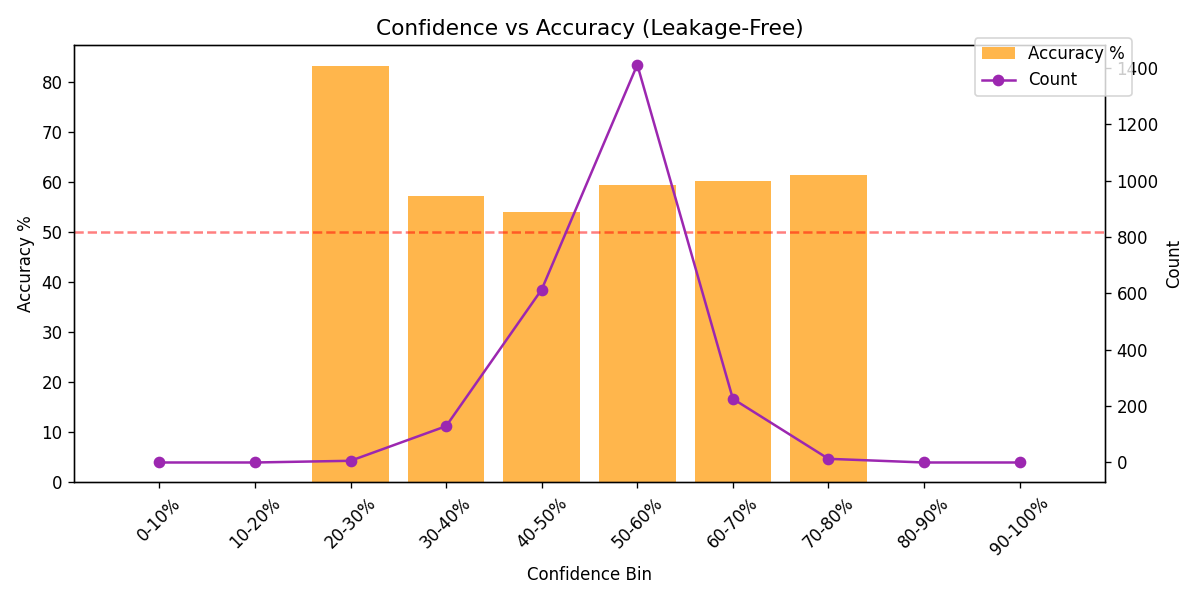
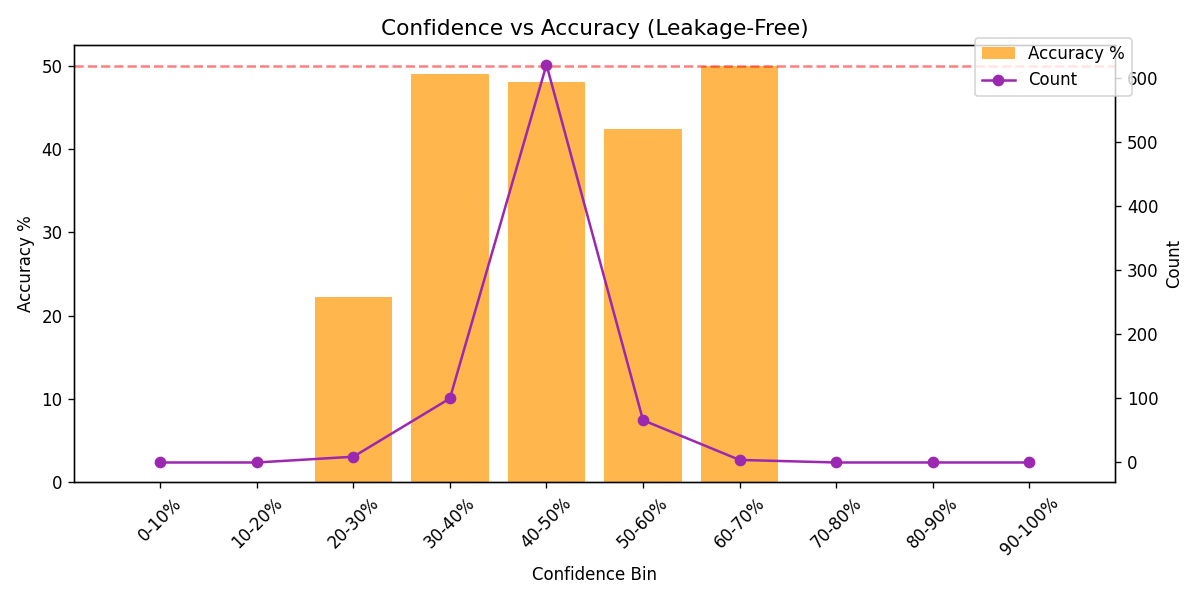
feat: Phase 6 - Implement Gemini High-Frequency Override Protocol (1 signal every 5 mins)

diff --git a/telegram_bot.py b/telegram_bot.py
@@ -650,117 +650,16 @@ async def _auto_signal_job(app: Application):
                     # Log EVERY prediction to CSV (before filtering)
                     _log_prediction_csv(sym, pred)
 
-                    # 4. Signal quality filters (using adaptive threshold)
-                    active_min_conf = _adaptive_thresh.current
+                    # =========================================================
+                    # Phase 6 (Always-On High Frequency Override):
+                    # We bypass ALL legacy ML confidence thresholds, regime blockers, 
+                    # and session filters. Every single 5-minute candle passes through 
+                    # to the Gemini Oracle for a forced directional verdict.
+                    # =========================================================
                     if pred.get("error"):
                         filtered_out[sym] = pred["error"]
                         continue
-                    if conf < active_min_conf:
-                        filtered_out[sym] = f"low-conf ({conf:.0f}%)"
-                        continue
-                    if trade == "HOLD" and conf < 42:
-                        filtered_out[sym] = "HOLD signal"
-                        continue
-                    if sym in filtered_out:  # regime transition
-                        continue
-
-                    # 5. Block losing regimes
-                    if regime in BLOCKED_REGIMES:
-                        filtered_out[sym] = f"blocked regime ({regime})"
-                        continue
-
-                    # 6. Block underperforming symbols
-                    if sym in BLOCKED_SYMBOLS:
-                        filtered_out[sym] = f"blocked symbol"
-                        continue
-
-                    # 7. Ensemble disagreement filter
-                    ens_var = pred.get("ensemble_variance", 0)
-                    if ens_var > MAX_ENSEMBLE_VARIANCE:
-                        filtered_out[sym] = f"ensemble disagree (var={ens_var:.4f})"
-                        continue
-
-                    # 8. Skip when meta reliability is too low
-                    meta_rel = pred.get("meta_reliability_percent", 50)
-                    if meta_rel < 40 and conf < 48:
-                        filtered_out[sym] = f"low meta ({meta_rel:.0f}%)"
-                        continue
-
-                    # =========================================================
-                    # STRATEGY 2: Ensemble Unanimity (require 6/7+ agreement)
-                    # =========================================================
-                    unanimity = pred.get("ensemble_unanimity", 0.5)
-                    if unanimity < MIN_UNANIMITY:
-                        agree = pred.get('ensemble_agree_count', '?')
-                        total = pred.get('ensemble_total', '?')
-                        filtered_out[sym] = f"split vote ({agree}/{total})"
-                        continue
-
-                    # =========================================================
-                    # STRATEGY 3: Session Hour Window
-                    # =========================================================
-                    current_hour = now_utc.hour
-                    if current_hour in BLOCKED_HOURS_UTC:
-                        filtered_out[sym] = f"off-hours ({current_hour}:00 UTC)"
-                        continue
-
-                    # =========================================================
-                    # STRATEGY 5: Consecutive Candle Confirmation
-                    # =========================================================
-                    current_dir = pred["suggested_direction"]
-                    prev_dir = _prev_directions.get(sym)
-                    _prev_directions[sym] = current_dir  # always update
-                    if prev_dir is not None and prev_dir != current_dir and regime == "Ranging":
-                        filtered_out[sym] = f"direction flip ({prev_dir}->{current_dir})"
-                        continue
-
-                    # =========================================================
-                    # STRATEGY 1: Multi-TF Confluence
-                    # =========================================================
-                    try:
-                        data_mtf = fetch_multi_timeframe(sym, 50)
-                        confl = check_confluence(
-                            m5_df=data_mtf.get('M5'),
-                            m15_df=data_mtf.get('M15'),
-                            h1_df=data_mtf.get('H1'),
-                            predicted_direction=current_dir,
-                            min_score=2,
-                        )
-                        pred["confluence_score"] = confl["confluence_score"]
-                        if not confl["confluence_pass"]:
-                            filtered_out[sym] = confl["reason"]
-                            continue
-                    except Exception as e:
-                        log.warning("Confluence check exception %s: %s", sym, e)
-                        filtered_out[sym] = f"confluence error ({e})"
-                        continue
-
-                    # =========================================================
-                    # UPGRADE 2: Candle Pattern Confirmation
-                    # =========================================================
-                    try:
-                        cp = pattern_confirms(data.get('M5'), current_dir)
-                        if not cp["confirmed"]:
-                            filtered_out[sym] = cp["reason"]
-                            continue
-                    except Exception as e:
-                        log.warning("Candle pattern exception %s: %s", sym, e)
-                        filtered_out[sym] = f"pattern error ({e})"
-                        continue
-
-                    # =========================================================
-                    # UPGRADE 4: News Calendar Filter
-                    # =========================================================
-                    try:
-                        nf = check_news_filter(sym, now_utc)
-                        if nf["blocked"]:
-                            filtered_out[sym] = nf["reason"]
-                            continue
-                    except Exception as e:
-                        log.warning("News filter exception %s: %s", sym, e)
-                        filtered_out[sym] = f"news error ({e})"
-                        continue
-
+                        
                     predictions[sym] = pred
                     _last_predictions[sym] = {
                         "pred": pred,
@@ -796,28 +695,9 @@ async def _auto_signal_job(app: Application):
                 predictions = corr_filtered
 
             # =================================================================
-            # UPGRADE 6: Stacking Gatekeeper
+            # Phase 6: Bypass Stacking Gatekeeper & Rank/Select
+            # We want to allow ALL signals through to the Gemini layer
             # =================================================================
-            if predictions:
-                stacker_filtered = {}
-                for sym, pred in predictions.items():
-                    gate = _stacker.should_send(pred, threshold=0.55)
-                    if gate["send"]:
-                        stacker_filtered[sym] = pred
-                    else:
-                        filtered_out[sym] = gate["reason"]
-                        log.info("Stacker gate: %s blocked — %s", sym, gate["reason"])
-                predictions = stacker_filtered
-
-            # =================================================================
-            # STRATEGY 4: Rank and select only top N signals
-            # =================================================================
-            if predictions:
-                predictions = rank_and_select(
-                    predictions,
-                    max_signals=MAX_SIGNALS_PER_CYCLE,
-                    min_score=MIN_SIGNAL_SCORE,
-                )
 
             # =================================================================
             # LAYER 13: Gemini AI Master Trader Verification
@@ -864,14 +744,13 @@ async def _auto_signal_job(app: Application):
                                 atr=atr,
                                 news_sentiment="N/A"
                             )
-                            if v["approved"]:
-                                gemini_filtered[sym] = pred
-                                log.info("Gemini APPROVED %s (Conf: %s%%): %s", sym, v.get("gemini_confidence", "?"), v["reason"])
-                            else:
-                                filtered_out[sym] = f"Gemini Veto: {v['reason']}"
-                                log.info("Gemini REJECTED %s (Conf: %s%%): %s", sym, v.get("gemini_confidence", "?"), v["reason"])
-                        else:
+                            # Phase 6: Gemini represents the ultimate Directional Override
+                            # It forces a YES/NO on the current direction, converting the signal.
+                            pred["suggested_direction"] = v["verdict"]
+                            if v.get("gemini_confidence", 0) > 0:
+                                pred["final_confidence_percent"] = v["gemini_confidence"]
                             gemini_filtered[sym] = pred
+                            log.info("Gemini OVERRIDE on %s to %s (Conf: %s%%): %s", sym, v["verdict"], v.get("gemini_confidence", "?"), v["reason"])
                     except Exception as e:
                         log.warning("Gemini integration error on %s: %s", sym, e)
                         gemini_filtered[sym] = pred  # Fail-open

diff --git a/feature_engineering.py b/feature_engineering.py
@@ -81,10 +81,10 @@ FEATURE_COLUMNS = [
     "delta_adx_accel", "delta_atr_accel",
     # Spread-relative move size
     "move_vs_spread",
-    # Hour granularity
-    "minute_sin",
-    # Phase 1: Trend-wrapped momentum (2)
-    "momentum_in_trend", "momentum_vs_ema",
+    # Phase 5 (1-Candle Expiry) Binary Options Microstructure
+    "upper_wick_percent", "lower_wick_percent", "body_percent",
+    "rsi_velocity", "atr_acceleration", "close_to_high_dist", "close_to_low_dist",
+    "micro_trend_3", "price_action_score",
 ]
 
 
@@ -410,6 +410,43 @@ def compute_features(df, m15_df=None, h1_df=None):
     # Compression acceleration (how fast is range narrowing)
     df["range_compression_speed"] = df["compression_ratio"] - df["compression_ratio"].shift(5)
 
+    # --- Phase 5 (1-Candle Expiry) Proprietary Features ---
+    # Define variables explicitly
+    high = df["high"]
+    low = df["low"]
+    close = df["close"]
+    
+    # 1. Wick & Body Proportions (crucial for next-candle momentum)
+    candle_range = (high - low).replace(0, 1e-10)
+    df["upper_wick_percent"] = (high - df[["open", "close"]].max(axis=1)) / candle_range
+    df["lower_wick_percent"] = (df[["open", "close"]].min(axis=1) - low) / candle_range
+    df["body_percent"] = df["body_size"] / candle_range
+    
+    # 2. RSI Velocity (How fast is momentum shifting right now)
+    df["rsi_velocity"] = df["rsi_14"].diff(1).fillna(0)
+    
+    # 3. ATR Acceleration (Volatility expansion inside the 5m window)
+    df["atr_acceleration"] = (df["atr_14"].diff(1) / df["atr_14"].shift(1).replace(0, 1e-10)).fillna(0)
+    
+    # 4. Intra-candle closing pressure
+    df["close_to_high_dist"] = (high - close) / candle_range
+    df["close_to_low_dist"] = (close - low) / candle_range
+    
+    # 5. Micro-trend (3-bar immediate direction)
+    df["micro_trend_3"] = (close > close.shift(3)).astype(float).fillna(0.5)
+    
+    # 6. Synthesized Price Action Score (Combines wicks + body direction)
+    # A strong green body closing near the high = 1.0, strong red closing near low = -1.0
+    pa_score = pd.Series(0.0, index=df.index)
+    bull_mask = close > df["open"]
+    bear_mask = close < df["open"]
+    
+    # Bulls get points for big body, small upper wick (closing near high)
+    pa_score.loc[bull_mask] = df.loc[bull_mask, "body_percent"] - df.loc[bull_mask, "upper_wick_percent"]
+    # Bears get points for big body, small lower wick (closing near low)
+    pa_score.loc[bear_mask] = -(df.loc[bear_mask, "body_percent"] - df.loc[bear_mask, "lower_wick_percent"])
+    df["price_action_score"] = pa_score.fillna(0)
+
     # ---- v7: Accuracy upgrades ----
 
     # 1. Tick volume imbalance bars (order flow proxy)
@@ -446,7 +483,8 @@ def compute_features(df, m15_df=None, h1_df=None):
     df["five_candle_pattern"] = d4 * 16 + d3 * 8 + d2 * 4 + d1 * 2 + d0
 
     # Doji count (small body candles)
-    body_ratio = (c - o).abs() / candle_range
+    candle_range_5 = (df["high"] - df["low"]).replace(0, 1e-10)
+    body_ratio = (df["close"] - df["open"]).abs() / candle_range_5
     is_doji = (body_ratio < 0.3).astype(int)
     df["doji_count_5"] = is_doji.rolling(5, min_periods=1).sum()
 

diff --git a/gemini_filter.py b/gemini_filter.py
@@ -119,12 +119,9 @@ Now, apply advanced verification techniques used by elite traders (including Chi
 - Consideration of upcoming high-impact news events (if known)
 
 Return a JSON object with the following fields:
-- verdict: string, one of ["WIN", "LOSE", "UNCERTAIN"]
+- direction: string, exactly one of ["UP", "DOWN"] (your predicted direction for the next candle)
 - confidence: integer 0-100 (how sure you are of your verdict)
 - reasoning: string (brief explanation of your analysis)
-- suggested_probability_adjustment: float (optional, e.g., +0.05 to increase original probability)
-- suggested_confidence_adjustment: float (optional, similar)
-- filter_signal: boolean (true if the signal should be skipped/filtered out)
 """
     
     try:
@@ -133,34 +130,18 @@ Return a JSON object with the following fields:
         
         parsed = json.loads(text)
         
-        # The prompt forces filter_signal (boolean). Let's use it or fallback to verdict
-        should_filter = parsed.get("filter_signal", False)
-        verdict = parsed.get("verdict", "UNCERTAIN").upper()
-        
-        # If the LLM didn't pass filter_signal boolean, fallback to LOSE/UNCERTAIN logic
-        if "filter_signal" not in parsed:
-            if verdict == "LOSE":
-                should_filter = True
-                
+        direction_pred = parsed.get("direction", "UNKNOWN").upper()
         reason = parsed.get("reasoning", "No reasoning provided.")
         gemini_conf = parsed.get("confidence", 0)
         
-        if not should_filter:
-            return {
-                "approved": True, 
-                "reason": f"Gemini {verdict} ({gemini_conf}%): {reason}",
-                "gemini_confidence": gemini_conf,
-                "verdict": verdict
-            }
-        else:
-            return {
-                "approved": False, 
-                "reason": f"Gemini Filtered ({verdict}): {reason}",
-                "gemini_confidence": gemini_conf,
-                "verdict": verdict
-            }
+        return {
+            "approved": True,  # Always pass through now
+            "reason": f"Gemini Predicts {direction_pred} ({gemini_conf}%): {reason}",
+            "gemini_confidence": gemini_conf,
+            "verdict": direction_pred
+        }
             
     except Exception as e:
         log.warning("Gemini API call failed for %s: %s", symbol, e)
-        # Fail open if the API goes down so trading continues, but log it.
-        return {"approved": True, "reason": f"Gemini Error (Auto-Passed): {str(e)}", "gemini_confidence": 0, "verdict": "ERROR"}
+        # Fail open by defaulting to original direction if API goes down
+        return {"approved": True, "reason": f"Gemini Error (Auto-Passed): {str(e)}", "gemini_confidence": 0, "verdict": direction}

diff --git a/predict_engine.py b/predict_engine.py
@@ -432,32 +432,13 @@ def predict(df, regime):
             kelly_quarter = max(0, kelly_full * 0.25)
             kelly_pct = round(kelly_quarter * 100, 1)
 
-        # Phase 3+4: Adaptive regime filter -- check if we should skip
-        should_skip, skip_reason = _should_skip(regime, confidence_pct, df,
-                                                  ensemble_variance=variance)
-
-        # Trade suggestion (with skip override and EMA alignment gate - Gap 6)
-        if should_skip:
-            trade = "SKIP"
-        else:
-            thresholds = get_regime_thresholds(regime)
-            
-            # Phase 3: 4-EMA Stack Alignment Hard Gate
-            ema_20 = df["ema_20"].iloc[-1]
-            ema_50 = df["ema_50"].iloc[-1]
-            ema_100 = df["ema_100"].iloc[-1]
-            ema_200 = df["ema_200"].iloc[-1]
-            trend_is_up = (ema_20 > ema_50) and (ema_50 > ema_100) and (ema_100 > ema_200)
-            trend_is_down = (ema_20 < ema_50) and (ema_50 < ema_100) and (ema_100 < ema_200)
-            
-            if green_p >= thresholds["primary"] and meta_rel >= thresholds["meta"]:
-                trade = "BUY" if trend_is_up else "HOLD"
-                if trade == "HOLD": skip_reason = "EMA bearish/mixed alignment"
-            elif green_p <= (1 - thresholds["primary"]) and meta_rel >= thresholds["meta"]:
-                trade = "SELL" if trend_is_down else "HOLD"
-                if trade == "HOLD": skip_reason = "EMA bullish/mixed alignment"
-            else:
-                trade = "HOLD"
+        # Phase 6 (Always-On High Frequency Override):
+        # We completely bypass the should_skip regime filters, confidence minimums, 
+        # and EMA alignment gates. The ML engine MUST provide a base directional
+        # bias for every single candle so Gemini can make the final Override decision.
+        should_skip = False
+        skip_reason = ""
+        trade = "BUY" if green_p >= 0.5 else "SELL"
 
         # Update direction history for live parity
         _direction_history.append(1 if green_p >= 0.5 else 0)
